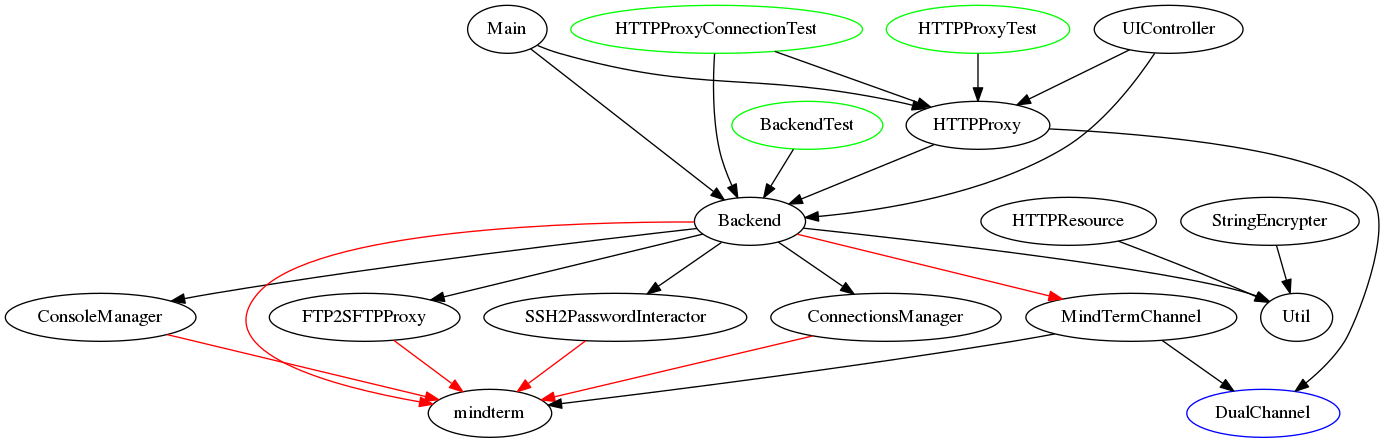
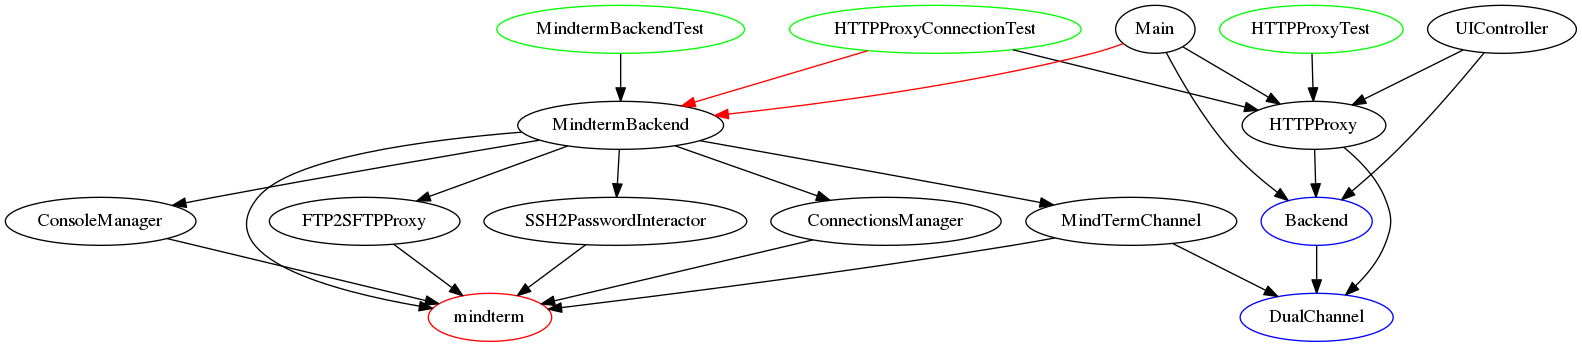
Doc update #57

diff --git a/doc/mindterm.md b/doc/mindterm.md
@@ -18,8 +18,8 @@ Stage 1: isolate dependency upon MindTerm inside Backend class solely
 Stage 2: implement Backend feature toggle
 ---
 
- - [ ] extract interface from `Backend` class
- - [ ] use new interface everywhere
+ - [x] extract interface from `Backend` class
+ - [x] use new interface everywhere
  - [ ] create (empty) alternative `Backend` implementation based on `sshj` or `jsch`
  - [ ] impement (temporarily) config option that allows to choose alternative `Backend` implementation
 
